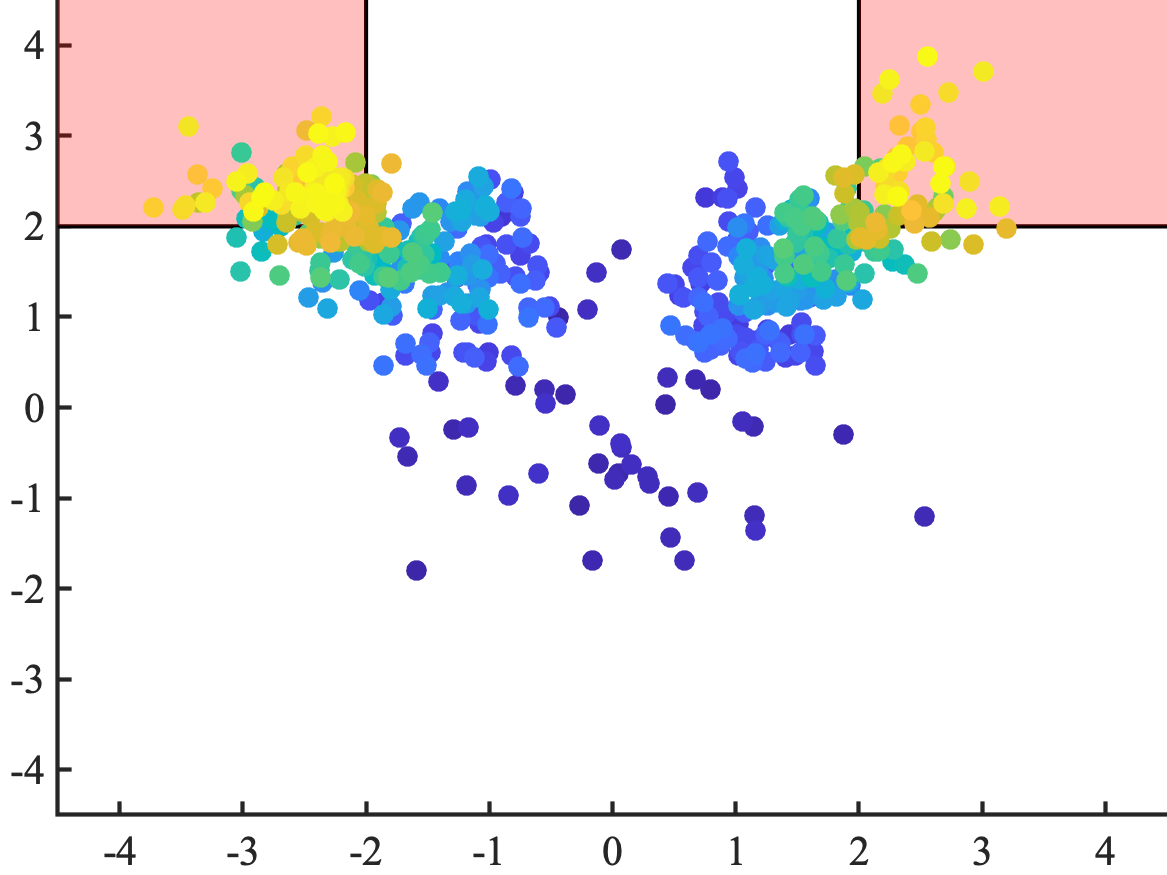
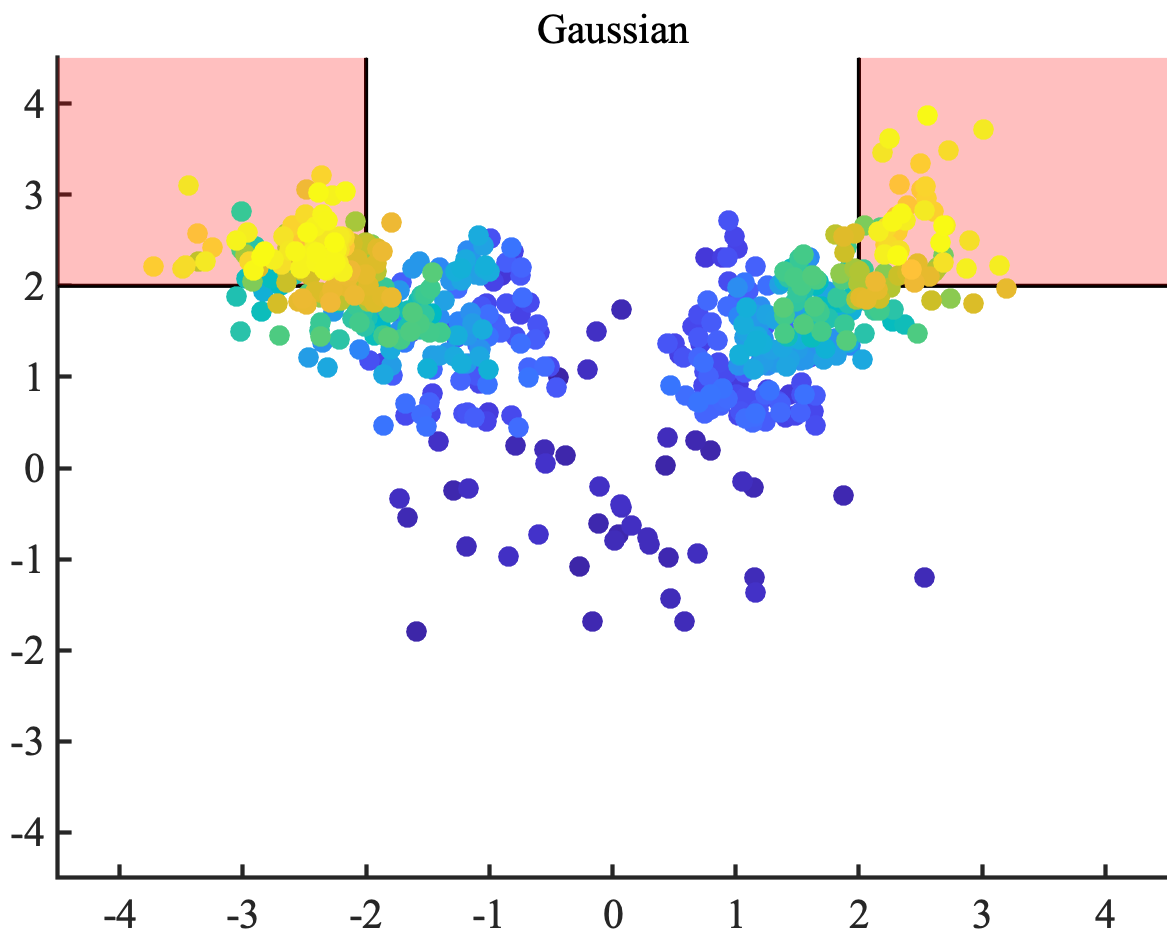
add image titles

diff --git a/README.md b/README.md
@@ -169,7 +169,7 @@ As you can see in the images above, Monte Carlo does well (just like grid-search
 
 ## Stress-testing
 
-Stress-testing (the `STRESSTEST` job type) is all about finding worst-case failures (in this example, finding parameters `x` that maximize `f(x)`). In some communities, this is also called black-box optimization. This is an adaptive method. We use information from previous samples to inform where we search next. Unlike the `RISK` job type, stress-testing doesn't care about the likelihoods of points. It only cares about optimizing the function. 
+Stress-testing (the `STRESSTEST` job type) is all about finding worst-case failures (in this example, finding parameters `x` that maximize `f(x)`). In some communities, this is also called black-box optimization. This is an adaptive method, because we use information from previous samples to inform where we search next. Unlike the `RISK` job type, stress-testing doesn't care about the likelihoods of points. It only cares about optimizing the function. 
 
 <img src="images/Stress_U.png" align=left width=425><img src="images/Stress_G.png" align=right width=425>
 <br/><br/>
@@ -190,7 +190,9 @@ As with grid-search, this method performs much better on the uniform case (lefth
 
 ## Risk
 
-At a high level, the `RISK` job type is essentially an adaptive form of Monte Carlo. The goal is to find coverage of all regions of interest so that we can report back the probability of those regions. The adaptivity comes into play when we use previous evaluations to inform where we sample next (unlike standard Monte Carlo or grid-search which are both nonadaptive). Unlike stress-testing (which is also adaptive), the algorithm underlying `RISK` keeps track of likelihoods of parameters while iteratively choosing the next sampling points. If this sounds like it's harder than any of the other 3 modes, that's because it is. But there's a great outcome from doing this bookkeeping. Namely, when the algorithm is finished (i.e. we've found coverage of the regions of interest), we can actually report back the probabilities of *all levels* before this region as well. For this example, that means that we can report the probability that `f(x)>L` for any `L<=2` when the job is finished. Here are a few other ways to think about what this method is doing: just like we can think of grid-search in non-uniform spaces as carving up the parameter space into regions of known probabilities, we can think of this risk approach as carving up the *output space* into regions of known probabilities. Further, we can think of this risk method as doing black-box estimation, a counterpart to stress-testing which does black-box optimization. Estimation is all about coverage of probability and keeping track of likelihoods, whereas optimization is all about just finding any point in the region of interest.
+At a high level, the `RISK` job type is essentially an adaptive form of Monte Carlo. The goal is to find coverage of all regions of interest so that we can report back the probability of those regions. The adaptivity comes into play when we use previous evaluations to inform where we sample next (unlike standard Monte Carlo or grid-search which are both nonadaptive). Unlike stress-testing (which is also adaptive), the algorithm underlying `RISK` keeps track of likelihoods of parameters while iteratively choosing the next sampling points. If this sounds like it's harder than any of the other 3 modes, that's because it is. But there's a great outcome from doing this bookkeeping. Namely, when the algorithm is finished (i.e. we've found coverage of the regions of interest), we can actually report back the probabilities of *all levels* before this region as well. For this example, that means that we can report the probability that `f(x)>L` for any `L<=2` when the job is finished.
+
+Here are a few other ways to think about what this method is doing: just like we can think of grid-search in non-uniform spaces as carving up the parameter space into regions of known probabilities, we can think of this risk approach as carving up the *output space* into regions of known probabilities. Further, we can think of this risk method as doing black-box estimation, a counterpart to stress-testing which does black-box optimization. Estimation is all about coverage of probability and keeping track of likelihoods, whereas optimization is all about just finding any point in the region of interest.
 
 <img src="images/Risk_U.png" align=left width=425><img src="images/Risk_G.png" align=right width=425>
 <br/><br/>
